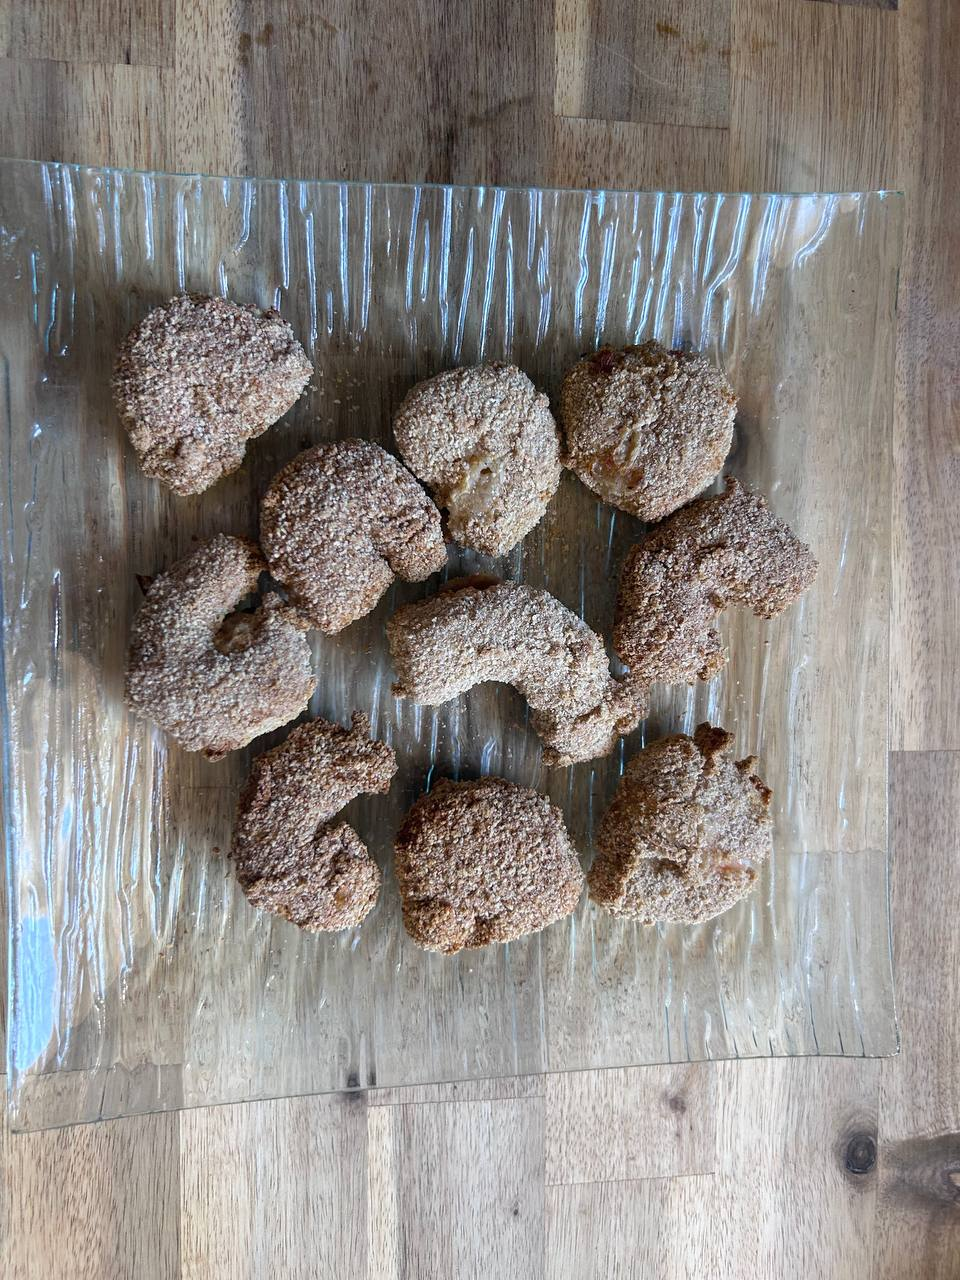
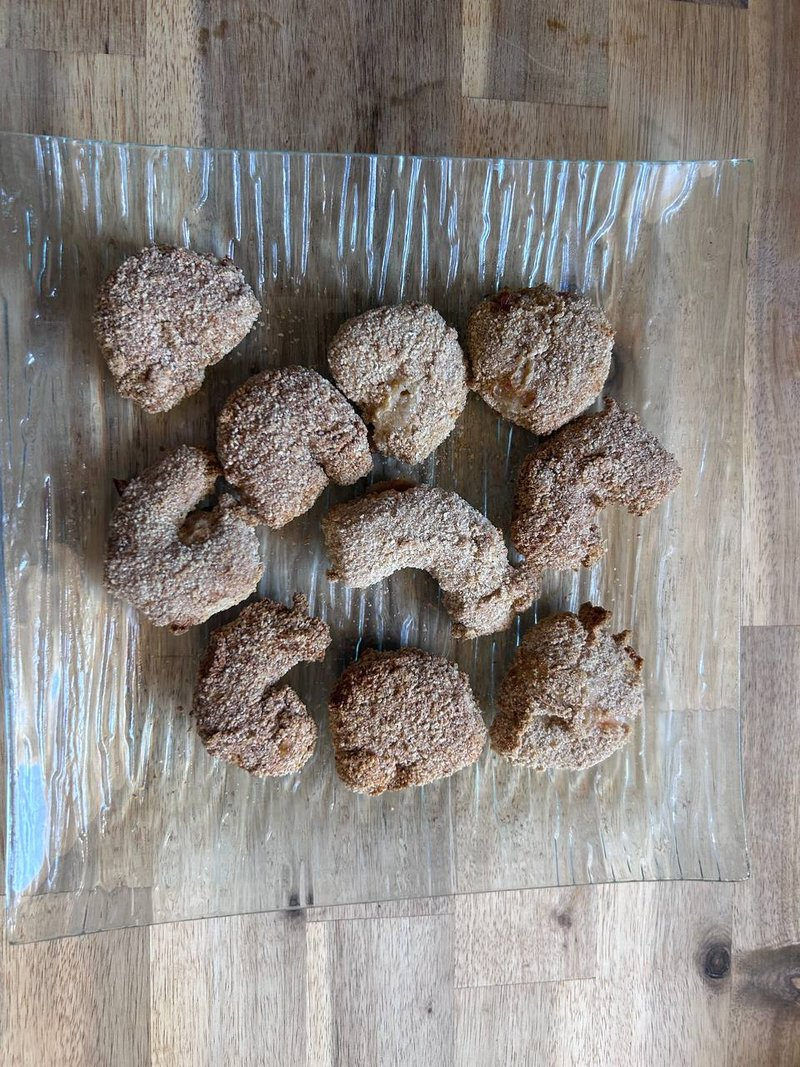
fix: photos hero pleine largeur (CSS object-fit cover + resize 800px)

diff --git a/css/style.css b/css/style.css
@@ -345,6 +345,14 @@ body {
     display: block;
 }
 
+.recipe-hero-image img {
+    width: 100%;
+    height: 100%;
+    object-fit: cover;
+    object-position: center;
+    display: block;
+}
+
 .recipe-hero-placeholder {
     width: 100%;
     height: 100%;
